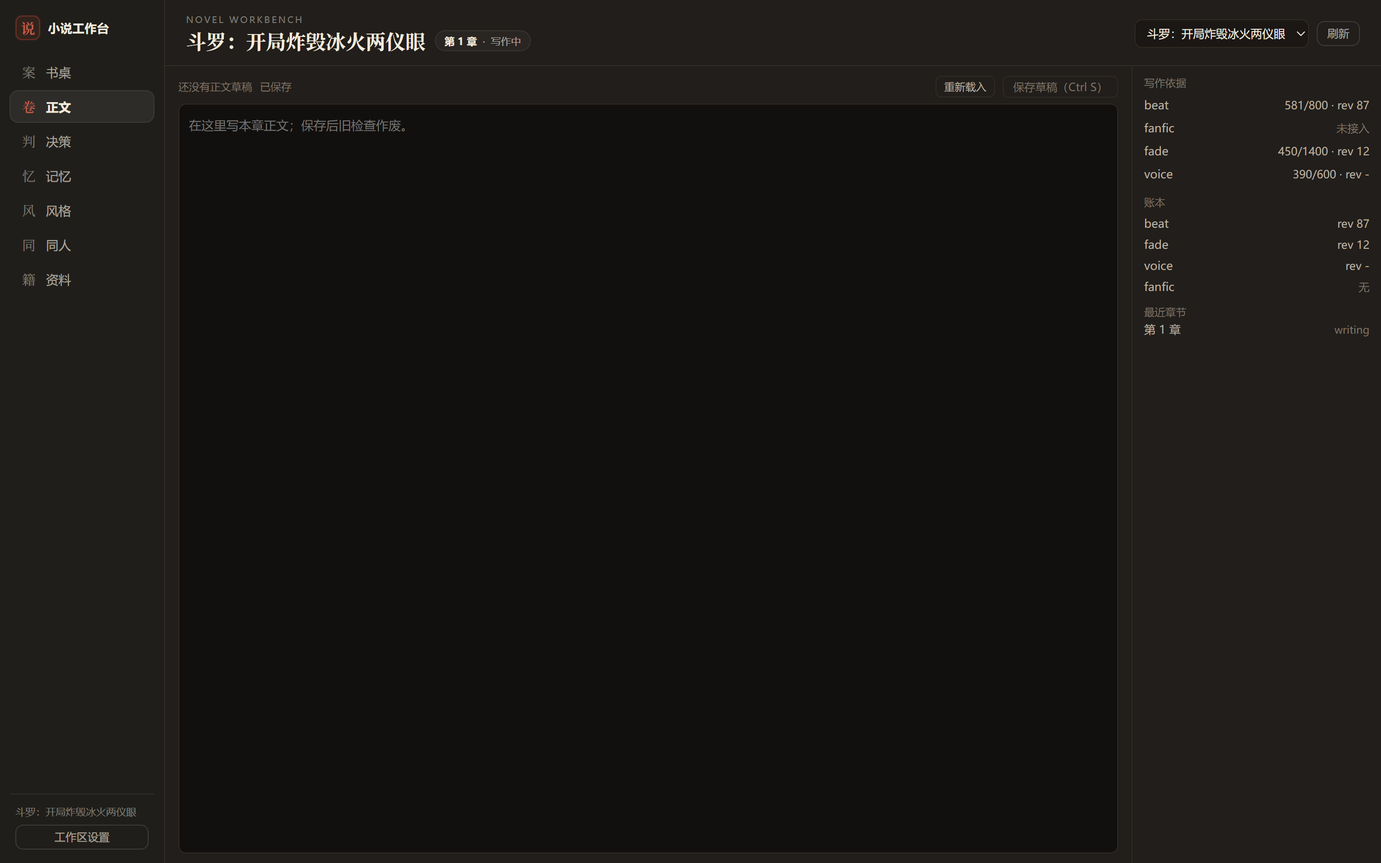
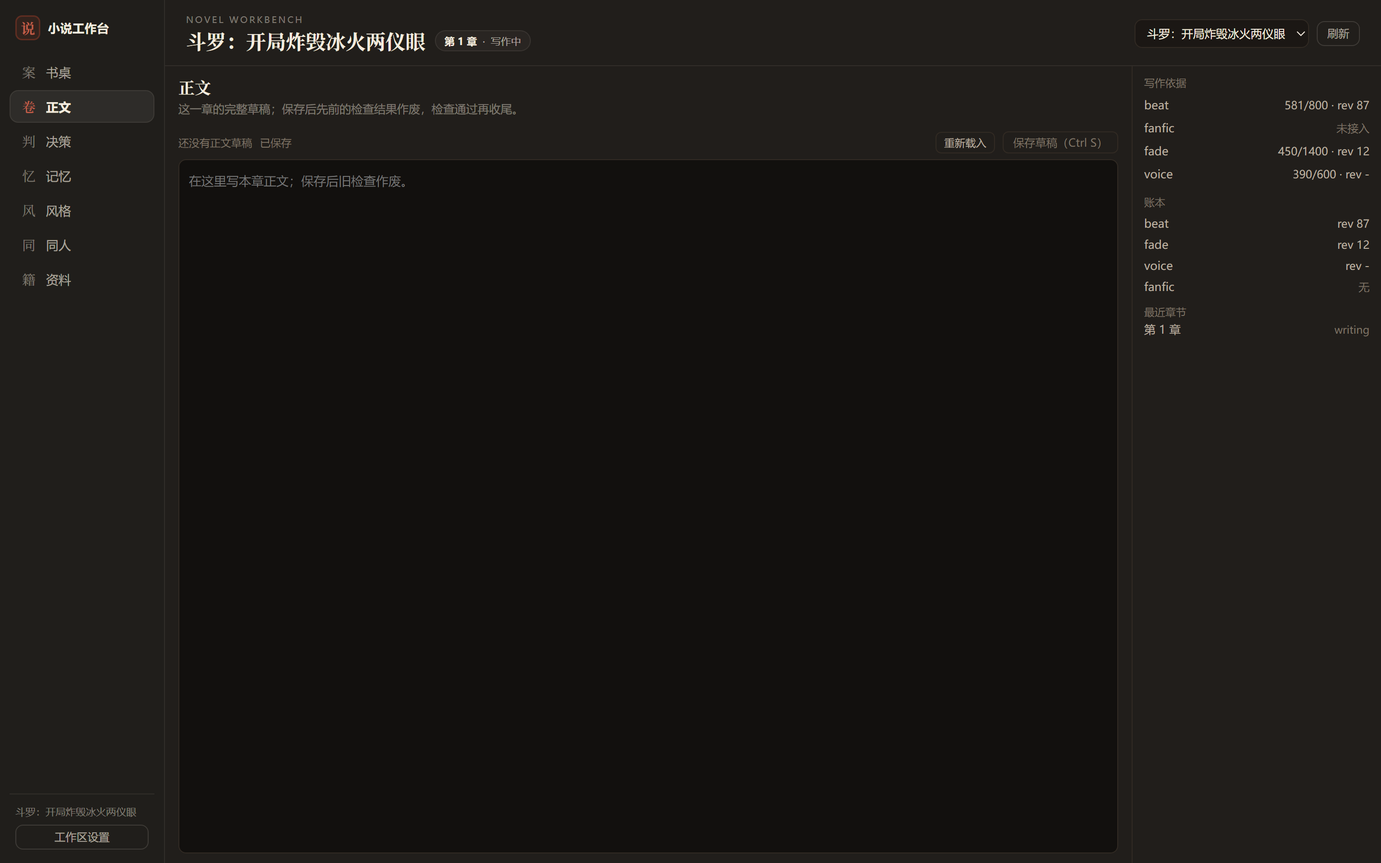
feat(kit): 正文页补页头；快照七页更新

diff --git a/docs/mockups/live/wb-chapter-dark.html b/docs/mockups/live/wb-chapter-dark.html
@@ -283,5 +283,5 @@ body { background: #0b0a09; color: var(--dsw-alias-label-primary); font-family: 
       .nk-wb :focus-visible, .nk-panel :focus-visible { outline: 2px solid var(--nk-accent-line); outline-offset: 1px; border-radius: var(--nk-r-sm); }
 </style>
 </head>
-<body><div id="stage"><div class="nk-wb"><nav class="nk-rail"><div class="nk-rail-brand"><div class="nk-rail-seal">说</div><div class="nk-rail-name">小说工作台</div></div><button class="nk-rail-item" type="button"><span class="nk-rail-glyph">案</span>书桌</button><button class="nk-rail-item active" type="button"><span class="nk-rail-glyph">卷</span>正文</button><button class="nk-rail-item" type="button"><span class="nk-rail-glyph">判</span>决策</button><button class="nk-rail-item" type="button"><span class="nk-rail-glyph">忆</span>记忆</button><button class="nk-rail-item" type="button"><span class="nk-rail-glyph">风</span>风格</button><button class="nk-rail-item" type="button"><span class="nk-rail-glyph">同</span>同人</button><button class="nk-rail-item" type="button"><span class="nk-rail-glyph">籍</span>资料</button><div class="nk-rail-foot"><div class="nk-rail-hint">斗罗：开局炸毁冰火两仪眼</div><button class="nk-btn" type="button">工作区设置</button></div></nav><div class="nk-wb-main"><div class="nk-wb-head"><div style="min-width:0px;display:flex;flex-direction:column;gap:3px"><div class="nk-wb-eyebrow">NOVEL WORKBENCH</div><div style="display:flex;align-items:center;gap:10px;min-width:0px"><div class="nk-wb-title">斗罗：开局炸毁冰火两仪眼</div><span class="nk-wb-status"><b>第 1 章</b><span>·</span><span>写作中</span></span></div></div><div class="nk-wb-head-actions"><select class="nk-select" style="width:auto;height:30px;margin:0px;font-size:12px;padding:0 8px" value="斗罗：开局炸毁冰火两仪眼"><option value="斗罗：开局炸毁冰火两仪眼">斗罗：开局炸毁冰火两仪眼</option></select><button class="nk-btn" type="button">刷新</button></div></div><div style="display:flex;gap:0px;flex:1;min-height:0px"><div style="flex:1;min-width:0px;padding:10px 14px;display:flex;flex-direction:column;min-height:0px"><div style="display:flex;align-items:center;gap:8px;margin-bottom:6px"><span style="color:var(--dsw-alias-label-tertiary);font-size:11px">还没有正文草稿</span><span style="color:var(--dsw-alias-label-tertiary);font-size:11px">已保存</span><span style="margin-left:auto;color:var(--dsw-alias-label-secondary);font-size:11px"></span><button style="appearance:none;border:1px solid var(--dsw-alias-border-l1);background:transparent;color:var(--dsw-alias-label-secondary);border-radius:6px;padding:3px 8px;font-size:11px;cursor:pointer;font-family:inherit" type="button">重新载入</button><button style="appearance:none;border:1px solid var(--dsw-alias-border-l1);background:transparent;color:var(--dsw-alias-label-tertiary);border-radius:6px;padding:3px 10px;font-size:11.5px;cursor:default;font-family:inherit" disabled type="button">保存草稿（Ctrl S）</button></div><textarea style="flex:1;width:100%;min-height:220px;resize:none;box-sizing:border-box;border:1px solid var(--dsw-alias-border-l1);border-radius:8px;background:var(--dsw-alias-bg-base);color:var(--dsw-alias-label-primary);font-family:inherit;font-size:13px;line-height:1.8;padding:10px" placeholder="在这里写本章正文；保存后旧检查作废。" value=""></textarea></div><div style="width:260px;flex-shrink:0;border-left:1px solid var(--dsw-alias-border-l1);padding:10px 12px;overflow-y:auto"><div style="color:var(--dsw-alias-label-tertiary);font-size:11px;margin-bottom:4px">写作依据</div><div style="display:flex;align-items:baseline;justify-content:space-between;gap:8px;padding:3px 0;border-bottom:none"><span style="color:var(--dsw-alias-label-secondary);font-size:12px;line-height:1.5">beat</span><span style="color:var(--dsw-alias-label-secondary);font-size:11.5px">581/800 · rev 87</span></div><div style="display:flex;align-items:baseline;justify-content:space-between;gap:8px;padding:3px 0;border-bottom:none"><span style="color:var(--dsw-alias-label-secondary);font-size:12px;line-height:1.5">fanfic</span><span style="color:var(--dsw-alias-label-tertiary);font-size:11.5px">未接入</span></div><div style="display:flex;align-items:baseline;justify-content:space-between;gap:8px;padding:3px 0;border-bottom:none"><span style="color:var(--dsw-alias-label-secondary);font-size:12px;line-height:1.5">fade</span><span style="color:var(--dsw-alias-label-secondary);font-size:11.5px">450/1400 · rev 12</span></div><div style="display:flex;align-items:baseline;justify-content:space-between;gap:8px;padding:3px 0;border-bottom:none"><span style="color:var(--dsw-alias-label-secondary);font-size:12px;line-height:1.5">voice</span><span style="color:var(--dsw-alias-label-secondary);font-size:11.5px">390/600 · rev -</span></div><div style="color:var(--dsw-alias-label-tertiary);font-size:11px;margin:10px 0 4px">账本</div><div style="display:flex;align-items:baseline;justify-content:space-between;gap:8px;padding:2px 0;border-bottom:none"><span style="color:var(--dsw-alias-label-secondary);font-size:12px;line-height:1.5">beat</span><span style="color:var(--dsw-alias-label-secondary);font-size:11.5px">rev 87</span></div><div style="display:flex;align-items:baseline;justify-content:space-between;gap:8px;padding:2px 0;border-bottom:none"><span style="color:var(--dsw-alias-label-secondary);font-size:12px;line-height:1.5">fade</span><span style="color:var(--dsw-alias-label-secondary);font-size:11.5px">rev 12</span></div><div style="display:flex;align-items:baseline;justify-content:space-between;gap:8px;padding:2px 0;border-bottom:none"><span style="color:var(--dsw-alias-label-secondary);font-size:12px;line-height:1.5">voice</span><span style="color:var(--dsw-alias-label-secondary);font-size:11.5px">rev -</span></div><div style="display:flex;align-items:baseline;justify-content:space-between;gap:8px;padding:2px 0;border-bottom:none"><span style="color:var(--dsw-alias-label-secondary);font-size:12px;line-height:1.5">fanfic</span><span style="color:var(--dsw-alias-label-tertiary);font-size:11.5px">无</span></div><div style="margin-top:8px"><div style="color:var(--dsw-alias-label-tertiary);font-size:11px">最近章节</div><div style="display:flex;align-items:baseline;justify-content:space-between;gap:8px;padding:2px 0;border-bottom:none"><span style="color:var(--dsw-alias-label-secondary);font-size:12px;line-height:1.5">第 1 章</span><span style="color:var(--dsw-alias-label-tertiary);font-size:11px">writing</span></div></div></div></div></div></div></div></body>
+<body><div id="stage"><div class="nk-wb"><nav class="nk-rail"><div class="nk-rail-brand"><div class="nk-rail-seal">说</div><div class="nk-rail-name">小说工作台</div></div><button class="nk-rail-item" type="button"><span class="nk-rail-glyph">案</span>书桌</button><button class="nk-rail-item active" type="button"><span class="nk-rail-glyph">卷</span>正文</button><button class="nk-rail-item" type="button"><span class="nk-rail-glyph">判</span>决策</button><button class="nk-rail-item" type="button"><span class="nk-rail-glyph">忆</span>记忆</button><button class="nk-rail-item" type="button"><span class="nk-rail-glyph">风</span>风格</button><button class="nk-rail-item" type="button"><span class="nk-rail-glyph">同</span>同人</button><button class="nk-rail-item" type="button"><span class="nk-rail-glyph">籍</span>资料</button><div class="nk-rail-foot"><div class="nk-rail-hint">斗罗：开局炸毁冰火两仪眼</div><button class="nk-btn" type="button">工作区设置</button></div></nav><div class="nk-wb-main"><div class="nk-wb-head"><div style="min-width:0px;display:flex;flex-direction:column;gap:3px"><div class="nk-wb-eyebrow">NOVEL WORKBENCH</div><div style="display:flex;align-items:center;gap:10px;min-width:0px"><div class="nk-wb-title">斗罗：开局炸毁冰火两仪眼</div><span class="nk-wb-status"><b>第 1 章</b><span>·</span><span>写作中</span></span></div></div><div class="nk-wb-head-actions"><select class="nk-select" style="width:auto;height:30px;margin:0px;font-size:12px;padding:0 8px" value="斗罗：开局炸毁冰火两仪眼"><option value="斗罗：开局炸毁冰火两仪眼">斗罗：开局炸毁冰火两仪眼</option></select><button class="nk-btn" type="button">刷新</button></div></div><div style="display:flex;gap:0px;flex:1;min-height:0px"><div style="flex:1;min-width:0px;padding:10px 14px;display:flex;flex-direction:column;min-height:0px"><div class="nk-page-head"><div><div class="nk-h2">正文</div><div class="nk-page-sub">这一章的完整草稿；保存后先前的检查结果作废，检查通过再收尾。</div></div></div><div style="display:flex;align-items:center;gap:8px;margin-bottom:6px"><span style="color:var(--dsw-alias-label-tertiary);font-size:11px">还没有正文草稿</span><span style="color:var(--dsw-alias-label-tertiary);font-size:11px">已保存</span><span style="margin-left:auto;color:var(--dsw-alias-label-secondary);font-size:11px"></span><button style="appearance:none;border:1px solid var(--dsw-alias-border-l1);background:transparent;color:var(--dsw-alias-label-secondary);border-radius:6px;padding:3px 8px;font-size:11px;cursor:pointer;font-family:inherit" type="button">重新载入</button><button style="appearance:none;border:1px solid var(--dsw-alias-border-l1);background:transparent;color:var(--dsw-alias-label-tertiary);border-radius:6px;padding:3px 10px;font-size:11.5px;cursor:default;font-family:inherit" disabled type="button">保存草稿（Ctrl S）</button></div><textarea style="flex:1;width:100%;min-height:220px;resize:none;box-sizing:border-box;border:1px solid var(--dsw-alias-border-l1);border-radius:8px;background:var(--dsw-alias-bg-base);color:var(--dsw-alias-label-primary);font-family:inherit;font-size:13px;line-height:1.8;padding:10px" placeholder="在这里写本章正文；保存后旧检查作废。" value=""></textarea></div><div style="width:260px;flex-shrink:0;border-left:1px solid var(--dsw-alias-border-l1);padding:10px 12px;overflow-y:auto"><div style="color:var(--dsw-alias-label-tertiary);font-size:11px;margin-bottom:4px">写作依据</div><div style="display:flex;align-items:baseline;justify-content:space-between;gap:8px;padding:3px 0;border-bottom:none"><span style="color:var(--dsw-alias-label-secondary);font-size:12px;line-height:1.5">beat</span><span style="color:var(--dsw-alias-label-secondary);font-size:11.5px">581/800 · rev 87</span></div><div style="display:flex;align-items:baseline;justify-content:space-between;gap:8px;padding:3px 0;border-bottom:none"><span style="color:var(--dsw-alias-label-secondary);font-size:12px;line-height:1.5">fanfic</span><span style="color:var(--dsw-alias-label-tertiary);font-size:11.5px">未接入</span></div><div style="display:flex;align-items:baseline;justify-content:space-between;gap:8px;padding:3px 0;border-bottom:none"><span style="color:var(--dsw-alias-label-secondary);font-size:12px;line-height:1.5">fade</span><span style="color:var(--dsw-alias-label-secondary);font-size:11.5px">450/1400 · rev 12</span></div><div style="display:flex;align-items:baseline;justify-content:space-between;gap:8px;padding:3px 0;border-bottom:none"><span style="color:var(--dsw-alias-label-secondary);font-size:12px;line-height:1.5">voice</span><span style="color:var(--dsw-alias-label-secondary);font-size:11.5px">390/600 · rev -</span></div><div style="color:var(--dsw-alias-label-tertiary);font-size:11px;margin:10px 0 4px">账本</div><div style="display:flex;align-items:baseline;justify-content:space-between;gap:8px;padding:2px 0;border-bottom:none"><span style="color:var(--dsw-alias-label-secondary);font-size:12px;line-height:1.5">beat</span><span style="color:var(--dsw-alias-label-secondary);font-size:11.5px">rev 87</span></div><div style="display:flex;align-items:baseline;justify-content:space-between;gap:8px;padding:2px 0;border-bottom:none"><span style="color:var(--dsw-alias-label-secondary);font-size:12px;line-height:1.5">fade</span><span style="color:var(--dsw-alias-label-secondary);font-size:11.5px">rev 12</span></div><div style="display:flex;align-items:baseline;justify-content:space-between;gap:8px;padding:2px 0;border-bottom:none"><span style="color:var(--dsw-alias-label-secondary);font-size:12px;line-height:1.5">voice</span><span style="color:var(--dsw-alias-label-secondary);font-size:11.5px">rev -</span></div><div style="display:flex;align-items:baseline;justify-content:space-between;gap:8px;padding:2px 0;border-bottom:none"><span style="color:var(--dsw-alias-label-secondary);font-size:12px;line-height:1.5">fanfic</span><span style="color:var(--dsw-alias-label-tertiary);font-size:11.5px">无</span></div><div style="margin-top:8px"><div style="color:var(--dsw-alias-label-tertiary);font-size:11px">最近章节</div><div style="display:flex;align-items:baseline;justify-content:space-between;gap:8px;padding:2px 0;border-bottom:none"><span style="color:var(--dsw-alias-label-secondary);font-size:12px;line-height:1.5">第 1 章</span><span style="color:var(--dsw-alias-label-tertiary);font-size:11px">writing</span></div></div></div></div></div></div></div></body>
 </html>

diff --git a/docs/mockups/live/wb-chapter-light.html b/docs/mockups/live/wb-chapter-light.html
@@ -283,5 +283,5 @@ body { background: #efe9de; color: var(--dsw-alias-label-primary); font-family: 
       .nk-wb :focus-visible, .nk-panel :focus-visible { outline: 2px solid var(--nk-accent-line); outline-offset: 1px; border-radius: var(--nk-r-sm); }
 </style>
 </head>
-<body><div id="stage"><div class="nk-wb"><nav class="nk-rail"><div class="nk-rail-brand"><div class="nk-rail-seal">说</div><div class="nk-rail-name">小说工作台</div></div><button class="nk-rail-item" type="button"><span class="nk-rail-glyph">案</span>书桌</button><button class="nk-rail-item active" type="button"><span class="nk-rail-glyph">卷</span>正文</button><button class="nk-rail-item" type="button"><span class="nk-rail-glyph">判</span>决策</button><button class="nk-rail-item" type="button"><span class="nk-rail-glyph">忆</span>记忆</button><button class="nk-rail-item" type="button"><span class="nk-rail-glyph">风</span>风格</button><button class="nk-rail-item" type="button"><span class="nk-rail-glyph">同</span>同人</button><button class="nk-rail-item" type="button"><span class="nk-rail-glyph">籍</span>资料</button><div class="nk-rail-foot"><div class="nk-rail-hint">斗罗：开局炸毁冰火两仪眼</div><button class="nk-btn" type="button">工作区设置</button></div></nav><div class="nk-wb-main"><div class="nk-wb-head"><div style="min-width:0px;display:flex;flex-direction:column;gap:3px"><div class="nk-wb-eyebrow">NOVEL WORKBENCH</div><div style="display:flex;align-items:center;gap:10px;min-width:0px"><div class="nk-wb-title">斗罗：开局炸毁冰火两仪眼</div><span class="nk-wb-status"><b>第 1 章</b><span>·</span><span>写作中</span></span></div></div><div class="nk-wb-head-actions"><select class="nk-select" style="width:auto;height:30px;margin:0px;font-size:12px;padding:0 8px" value="斗罗：开局炸毁冰火两仪眼"><option value="斗罗：开局炸毁冰火两仪眼">斗罗：开局炸毁冰火两仪眼</option></select><button class="nk-btn" type="button">刷新</button></div></div><div style="display:flex;gap:0px;flex:1;min-height:0px"><div style="flex:1;min-width:0px;padding:10px 14px;display:flex;flex-direction:column;min-height:0px"><div style="display:flex;align-items:center;gap:8px;margin-bottom:6px"><span style="color:var(--dsw-alias-label-tertiary);font-size:11px">还没有正文草稿</span><span style="color:var(--dsw-alias-label-tertiary);font-size:11px">已保存</span><span style="margin-left:auto;color:var(--dsw-alias-label-secondary);font-size:11px"></span><button style="appearance:none;border:1px solid var(--dsw-alias-border-l1);background:transparent;color:var(--dsw-alias-label-secondary);border-radius:6px;padding:3px 8px;font-size:11px;cursor:pointer;font-family:inherit" type="button">重新载入</button><button style="appearance:none;border:1px solid var(--dsw-alias-border-l1);background:transparent;color:var(--dsw-alias-label-tertiary);border-radius:6px;padding:3px 10px;font-size:11.5px;cursor:default;font-family:inherit" disabled type="button">保存草稿（Ctrl S）</button></div><textarea style="flex:1;width:100%;min-height:220px;resize:none;box-sizing:border-box;border:1px solid var(--dsw-alias-border-l1);border-radius:8px;background:var(--dsw-alias-bg-base);color:var(--dsw-alias-label-primary);font-family:inherit;font-size:13px;line-height:1.8;padding:10px" placeholder="在这里写本章正文；保存后旧检查作废。" value=""></textarea></div><div style="width:260px;flex-shrink:0;border-left:1px solid var(--dsw-alias-border-l1);padding:10px 12px;overflow-y:auto"><div style="color:var(--dsw-alias-label-tertiary);font-size:11px;margin-bottom:4px">写作依据</div><div style="display:flex;align-items:baseline;justify-content:space-between;gap:8px;padding:3px 0;border-bottom:none"><span style="color:var(--dsw-alias-label-secondary);font-size:12px;line-height:1.5">beat</span><span style="color:var(--dsw-alias-label-secondary);font-size:11.5px">581/800 · rev 87</span></div><div style="display:flex;align-items:baseline;justify-content:space-between;gap:8px;padding:3px 0;border-bottom:none"><span style="color:var(--dsw-alias-label-secondary);font-size:12px;line-height:1.5">fanfic</span><span style="color:var(--dsw-alias-label-tertiary);font-size:11.5px">未接入</span></div><div style="display:flex;align-items:baseline;justify-content:space-between;gap:8px;padding:3px 0;border-bottom:none"><span style="color:var(--dsw-alias-label-secondary);font-size:12px;line-height:1.5">fade</span><span style="color:var(--dsw-alias-label-secondary);font-size:11.5px">450/1400 · rev 12</span></div><div style="display:flex;align-items:baseline;justify-content:space-between;gap:8px;padding:3px 0;border-bottom:none"><span style="color:var(--dsw-alias-label-secondary);font-size:12px;line-height:1.5">voice</span><span style="color:var(--dsw-alias-label-secondary);font-size:11.5px">390/600 · rev -</span></div><div style="color:var(--dsw-alias-label-tertiary);font-size:11px;margin:10px 0 4px">账本</div><div style="display:flex;align-items:baseline;justify-content:space-between;gap:8px;padding:2px 0;border-bottom:none"><span style="color:var(--dsw-alias-label-secondary);font-size:12px;line-height:1.5">beat</span><span style="color:var(--dsw-alias-label-secondary);font-size:11.5px">rev 87</span></div><div style="display:flex;align-items:baseline;justify-content:space-between;gap:8px;padding:2px 0;border-bottom:none"><span style="color:var(--dsw-alias-label-secondary);font-size:12px;line-height:1.5">fade</span><span style="color:var(--dsw-alias-label-secondary);font-size:11.5px">rev 12</span></div><div style="display:flex;align-items:baseline;justify-content:space-between;gap:8px;padding:2px 0;border-bottom:none"><span style="color:var(--dsw-alias-label-secondary);font-size:12px;line-height:1.5">voice</span><span style="color:var(--dsw-alias-label-secondary);font-size:11.5px">rev -</span></div><div style="display:flex;align-items:baseline;justify-content:space-between;gap:8px;padding:2px 0;border-bottom:none"><span style="color:var(--dsw-alias-label-secondary);font-size:12px;line-height:1.5">fanfic</span><span style="color:var(--dsw-alias-label-tertiary);font-size:11.5px">无</span></div><div style="margin-top:8px"><div style="color:var(--dsw-alias-label-tertiary);font-size:11px">最近章节</div><div style="display:flex;align-items:baseline;justify-content:space-between;gap:8px;padding:2px 0;border-bottom:none"><span style="color:var(--dsw-alias-label-secondary);font-size:12px;line-height:1.5">第 1 章</span><span style="color:var(--dsw-alias-label-tertiary);font-size:11px">writing</span></div></div></div></div></div></div></div></body>
+<body><div id="stage"><div class="nk-wb"><nav class="nk-rail"><div class="nk-rail-brand"><div class="nk-rail-seal">说</div><div class="nk-rail-name">小说工作台</div></div><button class="nk-rail-item" type="button"><span class="nk-rail-glyph">案</span>书桌</button><button class="nk-rail-item active" type="button"><span class="nk-rail-glyph">卷</span>正文</button><button class="nk-rail-item" type="button"><span class="nk-rail-glyph">判</span>决策</button><button class="nk-rail-item" type="button"><span class="nk-rail-glyph">忆</span>记忆</button><button class="nk-rail-item" type="button"><span class="nk-rail-glyph">风</span>风格</button><button class="nk-rail-item" type="button"><span class="nk-rail-glyph">同</span>同人</button><button class="nk-rail-item" type="button"><span class="nk-rail-glyph">籍</span>资料</button><div class="nk-rail-foot"><div class="nk-rail-hint">斗罗：开局炸毁冰火两仪眼</div><button class="nk-btn" type="button">工作区设置</button></div></nav><div class="nk-wb-main"><div class="nk-wb-head"><div style="min-width:0px;display:flex;flex-direction:column;gap:3px"><div class="nk-wb-eyebrow">NOVEL WORKBENCH</div><div style="display:flex;align-items:center;gap:10px;min-width:0px"><div class="nk-wb-title">斗罗：开局炸毁冰火两仪眼</div><span class="nk-wb-status"><b>第 1 章</b><span>·</span><span>写作中</span></span></div></div><div class="nk-wb-head-actions"><select class="nk-select" style="width:auto;height:30px;margin:0px;font-size:12px;padding:0 8px" value="斗罗：开局炸毁冰火两仪眼"><option value="斗罗：开局炸毁冰火两仪眼">斗罗：开局炸毁冰火两仪眼</option></select><button class="nk-btn" type="button">刷新</button></div></div><div style="display:flex;gap:0px;flex:1;min-height:0px"><div style="flex:1;min-width:0px;padding:10px 14px;display:flex;flex-direction:column;min-height:0px"><div class="nk-page-head"><div><div class="nk-h2">正文</div><div class="nk-page-sub">这一章的完整草稿；保存后先前的检查结果作废，检查通过再收尾。</div></div></div><div style="display:flex;align-items:center;gap:8px;margin-bottom:6px"><span style="color:var(--dsw-alias-label-tertiary);font-size:11px">还没有正文草稿</span><span style="color:var(--dsw-alias-label-tertiary);font-size:11px">已保存</span><span style="margin-left:auto;color:var(--dsw-alias-label-secondary);font-size:11px"></span><button style="appearance:none;border:1px solid var(--dsw-alias-border-l1);background:transparent;color:var(--dsw-alias-label-secondary);border-radius:6px;padding:3px 8px;font-size:11px;cursor:pointer;font-family:inherit" type="button">重新载入</button><button style="appearance:none;border:1px solid var(--dsw-alias-border-l1);background:transparent;color:var(--dsw-alias-label-tertiary);border-radius:6px;padding:3px 10px;font-size:11.5px;cursor:default;font-family:inherit" disabled type="button">保存草稿（Ctrl S）</button></div><textarea style="flex:1;width:100%;min-height:220px;resize:none;box-sizing:border-box;border:1px solid var(--dsw-alias-border-l1);border-radius:8px;background:var(--dsw-alias-bg-base);color:var(--dsw-alias-label-primary);font-family:inherit;font-size:13px;line-height:1.8;padding:10px" placeholder="在这里写本章正文；保存后旧检查作废。" value=""></textarea></div><div style="width:260px;flex-shrink:0;border-left:1px solid var(--dsw-alias-border-l1);padding:10px 12px;overflow-y:auto"><div style="color:var(--dsw-alias-label-tertiary);font-size:11px;margin-bottom:4px">写作依据</div><div style="display:flex;align-items:baseline;justify-content:space-between;gap:8px;padding:3px 0;border-bottom:none"><span style="color:var(--dsw-alias-label-secondary);font-size:12px;line-height:1.5">beat</span><span style="color:var(--dsw-alias-label-secondary);font-size:11.5px">581/800 · rev 87</span></div><div style="display:flex;align-items:baseline;justify-content:space-between;gap:8px;padding:3px 0;border-bottom:none"><span style="color:var(--dsw-alias-label-secondary);font-size:12px;line-height:1.5">fanfic</span><span style="color:var(--dsw-alias-label-tertiary);font-size:11.5px">未接入</span></div><div style="display:flex;align-items:baseline;justify-content:space-between;gap:8px;padding:3px 0;border-bottom:none"><span style="color:var(--dsw-alias-label-secondary);font-size:12px;line-height:1.5">fade</span><span style="color:var(--dsw-alias-label-secondary);font-size:11.5px">450/1400 · rev 12</span></div><div style="display:flex;align-items:baseline;justify-content:space-between;gap:8px;padding:3px 0;border-bottom:none"><span style="color:var(--dsw-alias-label-secondary);font-size:12px;line-height:1.5">voice</span><span style="color:var(--dsw-alias-label-secondary);font-size:11.5px">390/600 · rev -</span></div><div style="color:var(--dsw-alias-label-tertiary);font-size:11px;margin:10px 0 4px">账本</div><div style="display:flex;align-items:baseline;justify-content:space-between;gap:8px;padding:2px 0;border-bottom:none"><span style="color:var(--dsw-alias-label-secondary);font-size:12px;line-height:1.5">beat</span><span style="color:var(--dsw-alias-label-secondary);font-size:11.5px">rev 87</span></div><div style="display:flex;align-items:baseline;justify-content:space-between;gap:8px;padding:2px 0;border-bottom:none"><span style="color:var(--dsw-alias-label-secondary);font-size:12px;line-height:1.5">fade</span><span style="color:var(--dsw-alias-label-secondary);font-size:11.5px">rev 12</span></div><div style="display:flex;align-items:baseline;justify-content:space-between;gap:8px;padding:2px 0;border-bottom:none"><span style="color:var(--dsw-alias-label-secondary);font-size:12px;line-height:1.5">voice</span><span style="color:var(--dsw-alias-label-secondary);font-size:11.5px">rev -</span></div><div style="display:flex;align-items:baseline;justify-content:space-between;gap:8px;padding:2px 0;border-bottom:none"><span style="color:var(--dsw-alias-label-secondary);font-size:12px;line-height:1.5">fanfic</span><span style="color:var(--dsw-alias-label-tertiary);font-size:11.5px">无</span></div><div style="margin-top:8px"><div style="color:var(--dsw-alias-label-tertiary);font-size:11px">最近章节</div><div style="display:flex;align-items:baseline;justify-content:space-between;gap:8px;padding:2px 0;border-bottom:none"><span style="color:var(--dsw-alias-label-secondary);font-size:12px;line-height:1.5">第 1 章</span><span style="color:var(--dsw-alias-label-tertiary);font-size:11px">writing</span></div></div></div></div></div></div></div></body>
 </html>

diff --git a/client.js b/client.js
@@ -1534,6 +1534,7 @@ window.__ModuleLoader__.load({
 
       const pageView = section === 'chapter' ? h('div', { style: { display: 'flex', gap: 0, flex: 1, minHeight: 0 } },
           h('div', { style: { flex: 1, minWidth: 0, padding: '10px 14px', display: 'flex', flexDirection: 'column', minHeight: 0 } },
+            pageHead('正文', '这一章的完整草稿；保存后先前的检查结果作废，检查通过再收尾。'),
             h('div', { style: { display: 'flex', alignItems: 'center', gap: 8, marginBottom: 6 } },
               h('span', { style: faint }, draft ? `正文 v${draft.version} · ${draftState.loaded ? draftState.chars : (draft.chars ?? '?')} 字` : '还没有正文草稿'),
               h('span', { style: { color: draftState.dirty ? c.error : c.faint, fontSize: 11 } }, draftState.dirty ? '未保存' : (draftState.loaded ? '已保存' : '')),
